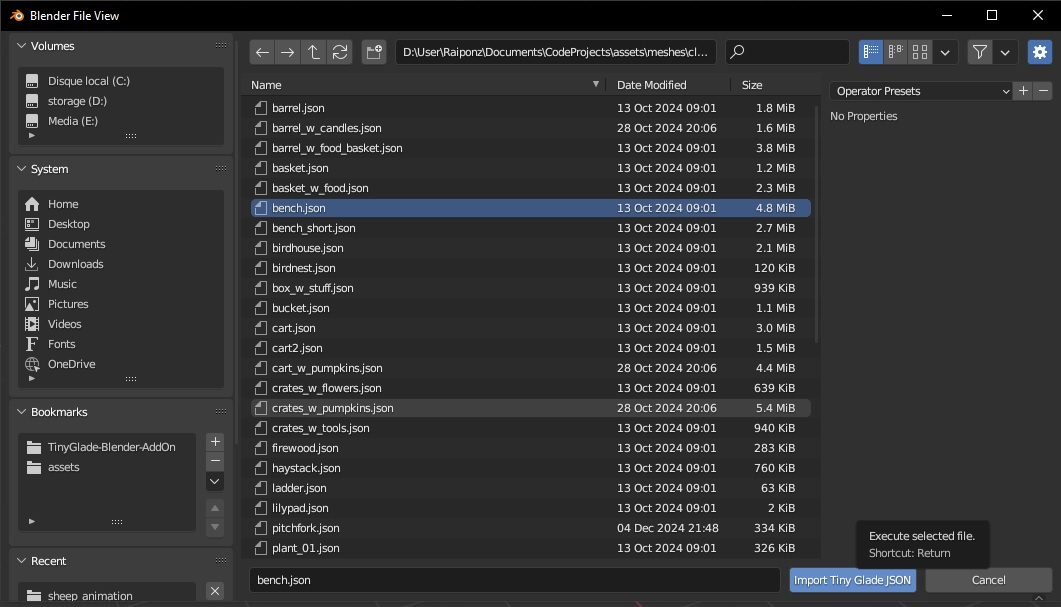
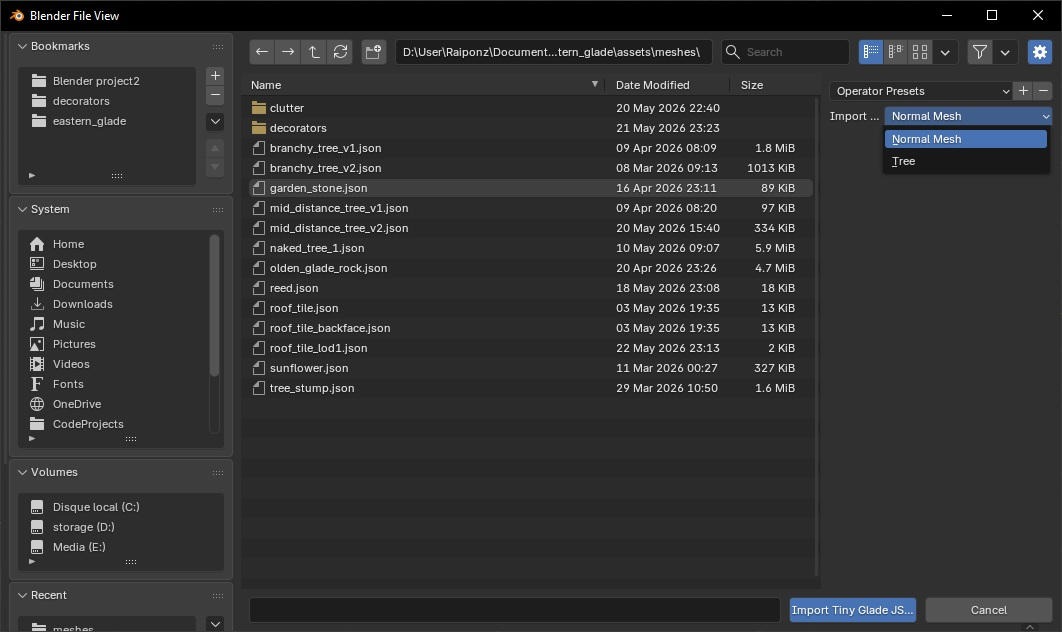
Deployed 30e613b with MkDocs version: 1.6.1

diff --git a/game-knowledge/save/index.html b/game-knowledge/save/index.html
@@ -829,7 +829,7 @@
 
 <h1 id="savegames">Savegames</h1>
 <h2 id="infos-about-game-saves">Infos about Game Saves</h2>
-<p>All information regarding how savegames work, when the game saves, that it saves and where you find your savegames can be found in the <a href="https://pouncelight.games/tiny-glade/troubleshooting/saves/">Developers Guide</a></p>
+<p>All information regarding how savegames work, when the game saves, what it saves and where you find your savegames can be found in the <a href="https://pouncelight.games/tiny-glade/troubleshooting/saves/">Developers Guide</a></p>
 <h2 id="why-do-my-savegames-use-a-lot-of-space">Why do my Savegames use a lot of Space?</h2>
 <p>To understand why the savegames use a lot of space we need to understand what uses this space and what main parts are the saves comprised of.</p>
 <p>The Saves are made out of basically 2 parts. The History and the Snapshots.</p>
@@ -840,9 +840,9 @@
 <p><strong>Snapshots</strong></p>
 <ul>
 <li>Snapshots generate each manual and automatic save. The snapshots help the Game to instantly load your build upon opening the glade.</li>
-<li>Without the snapshots, the game would read the history.json and make each edit. basically rebuilding the glade a new. Like a Timelapse. With the snapshots the game knows the current state and can build it instantly. This way you dont need to sit through the rebuilding process every time, which gets more and more timeconsuming the bigger the build gets.</li>
+<li>Without the snapshots, the game would read the history.json and make each edit. basically rebuilding the glade a new. Like a Timelapse. With the snapshots the game knows the current state and can build it instantly. This way you dont need to sit through the rebuilding process every time, which gets more and more time consuming the bigger the build gets.</li>
 </ul>
-<p>Since these Snapshots accumulate over time, the savegame folder gets bigger and bigger over time.</p>
+<p>Since these Snapshots accumulate over time, the savegame folder gets bigger and bigger over time. So you need to delete the unnecessary ones yourself.</p>
 <div class="admonition quote">
 <p class="admonition-title"><em>tl;dr:</em></p>
 <p>To reduce the filesize you can delete all snapshots, except the very last one. So you will still instantly load your glade, but the folder size will not grow infinitely big</p>

diff --git a/game-knowledge/starterbuilds/index.html b/game-knowledge/starterbuilds/index.html
@@ -836,7 +836,7 @@
 <p>For explanation how Saves in general work, please read up the devs own <a href="https://pouncelight.games/tiny-glade/troubleshooting/saves/">savegame documentation</a></p>
 </div>
 <h2 id="where-do-i-find-them">Where do i find them?</h2>
-<p>Alls starter builds can be found in <strong><code>...team\steamapps\common\Tiny Glade\assets\starting-builds</code></strong></p>
+<p>Alls starter builds can be found in <strong><code>...Steam\steamapps\common\Tiny Glade\assets\starting-builds</code></strong></p>
 <h2 id="can-i-change-them">Can i change them?</h2>
 <p>Yes.</p>
 <p>Since they are normal savegames you can freely:</p>
@@ -853,7 +853,7 @@
 <p>You can use any glade you want. Your own savegames or downloaded savegames.</p>
 <div class="admonition tipp">
 <p class="admonition-title">Tipp</p>
-<p>Keep the naming convention of the starting builds folder f.e. "01 [NAME]" so when the game updates and redownloads all default saves, you know which is added by yourself</p>
+<p>I advise to keep the naming convention of the starting builds f.e. "01 [NAME]" so when the game updates and re-downloads all default saves, you know which is added by yourself</p>
 </div>
 
 

diff --git a/modding-tools/sound-editing/index.html b/modding-tools/sound-editing/index.html
@@ -855,7 +855,7 @@
 <li>Run the Tool and press <em>extract</em></li>
 <li>
 <p>The tool will now create multiple folders:</p>
-<p><strong>fsb</strong> - This Folder has the extracted archives (<em>.fsb) where the audio files are stored in. </em><em>You dont need this</em>*</p>
+<p><strong>fsb</strong> - This Folder has the extracted archives (*.fsb) where the audio files are stored in.</p>
 <p><strong>wav</strong> - where you find the converted Audio files <strong>This is our Main folder to work with</strong></p>
 </li>
 <li>